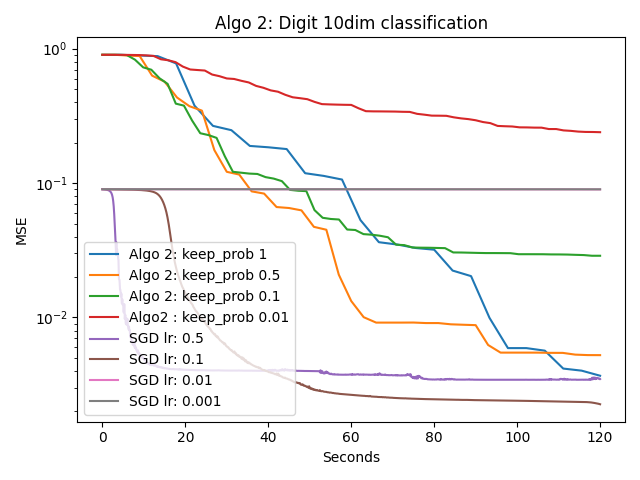
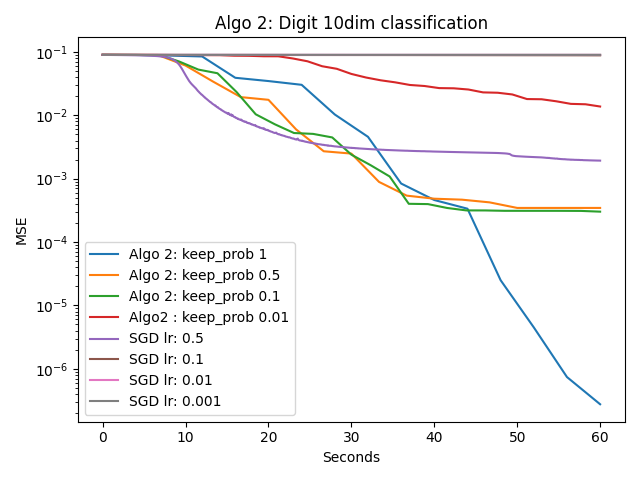
loss function fix

diff --git a/src/algorithms/algo2.py b/src/algorithms/algo2.py
@@ -6,7 +6,6 @@ sys.path.append("../functions")
 from tqdm import tqdm
 from datetime import datetime, timedelta
 import time
-
 from utils.plotting import visualize_step
 
  
@@ -15,8 +14,13 @@ from utils.plotting import visualize_step
 
 class Stepper():
     def __init__(self, optimization_method, nn, backtrack, batch_size, optim_params, visualize, A, Y):
+        self.optim_params = optim_params
         if optim_params is None:
-            optim_params = {}
+            self.optim_params = {
+                "keep_prov": 1,
+                "max_backtrack": 30,
+                "momentum": 0}
+        
 
         self.full_A = A
         self.full_Y = Y
@@ -26,18 +30,15 @@ class Stepper():
         self.lambd = 1
         self.batch_size = batch_size
         self.visualize = visualize
-        if "keep_prob" in optim_params:
-            self.keep_prob = optim_params["keep_prob"]
-        else:
-            self.keep_prob = 0.5
-        if "max_backtrack" in optim_params:
-            self.max_backtrack = optim_params["max_backtrack"]
-        else:
-            self.max_backtrack = 30
+        self.keep_prob = self.optim_params.get("keep_prob", 1)
+        self.max_backtrack = self.optim_params.get("max_backtrack", 30)
         
+        self.optim_params["momentum"] = self.optim_params.get("momentum", 0)
 
         self.backtracks = []
-        
+
+        self.prev_step = np.zeros_like(self.nn.get_X())
+        self.first_iteration = True
 
     def get_block(self, a, y):
         """
@@ -78,14 +79,17 @@ class Stepper():
 
         error_vec = self.nn.forward(A, self.X_t + delt)-Y.flatten()
         nabla_f = 2*A_ls.T@error_vec #+ 2*self.lambd*delt
+
+        min_lambd, max_lambd = 1e-15, 500
+        lambd_multiplier = 4
         while new_error > old_error + alpha*t*(nabla_f).T@delt :
             i+=1
 
             
             if i == maxi:
                 print("Max back track")
-                if self.lambd<5:
-                    self.lambd*=4
+                if self.lambd<max_lambd:
+                    self.lambd*=lambd_multiplier
                 self.backtracks.append(i)
                 return np.zeros_like(self.X_t)
                 break
@@ -98,10 +102,12 @@ class Stepper():
         print(i)
         self.backtracks.append(i)
 
-        if i < 1 and self.lambd>1e-15:
-            self.lambd/=4
-        elif self.lambd < 500:
-            self.lambd*=4
+        if i < 1 and self.lambd>min_lambd:
+            self.lambd/=lambd_multiplier
+        elif self.lambd < max_lambd:
+            self.lambd*=lambd_multiplier
+
+        
         return t*delt.flatten()  
 
     def take_step(self, X_t, A, Y):
@@ -148,11 +154,21 @@ class Stepper():
 
         c = 1#e-1
         delt = c*delt
+
+        if self.first_iteration:
+            self.first_iteration = False
+        else:
+            delt = self.optim_params["momentum"]*self.prev_step + (1-self.optim_params["momentum"])*delt
+        
         t3 = time.time()
         if self.backtrack:
             step = self.backtrack_step(A, Y, A_ls, b_ls, delt)
         else:
             step = delt.flatten()
+
+        ## Momentum
+
+        self.prev_step = step;
         t4 = time.time()
         jac_creation = t2-t1
         ls_solve = t3-t2
@@ -166,9 +182,12 @@ class Stepper():
 
 
 def mse(g, X, A, Y):
-    return np.sum(
-        np.linalg.norm(g.forward(A, X).reshape((-1, 1))-Y.reshape((-1, 1)), axis=1)**2
-    )/A.shape[0]
+    Y_pred = g.forward(A, X).reshape((-1, 1))
+    mse = ((Y_pred.flatten()- Y.flatten())**2).mean()
+    return mse
+    # return np.sum(
+    #     np.linalg.norm()-Y.reshape((-1, 1)), axis=1)**2
+    # )/A.shape[0]
 
 
 def optimize(g, X0, A, Y, A_test=None, Y_test=None, max_time=300, 

diff --git a/src/momentum.py b/src/momentum.py
@@ -1,0 +1,64 @@
+from functions.PyTorchGN import NN_GN
+from neural_networks.Conv2 import Conv2
+from neural_networks.Conv2_classifier import Conv2_Classifier
+from neural_networks.FC1 import FC1
+from neural_networks.FC2 import FC2
+from neural_networks.Conv1 import Conv1
+from sgd import stochastic_gradient_descent
+from utils.evaluation import get_accuracy
+from utils.plotting import *
+import numpy as np
+import matplotlib.pyplot as plt
+from algorithms.algo2 import optimize
+from data.get_data import get_data, get_data_classifier
+import torch
+
+
+if __name__ == '__main__':
+    torch.manual_seed(0)
+
+    ## Load MNIST Dataset 
+    N=400
+    (train_X, train_y), (test_X, test_y) = get_data_classifier(N=N, linear_input=False)
+
+    ## Get initial neural network parameters 
+    m = train_y.shape[1]
+    n = train_X.shape[1]
+
+    neural_network = Conv2_Classifier()
+    #summary(neural_network, input_size = (1, 28, 28))
+    neural_network.float()
+    nn_gn = NN_GN(neural_network)
+    X0 = nn_gn.get_X()
+    print("Parameters", X0.shape)
+
+    ## Do Gauss Newton
+    MAX_TIME = 120
+    EXPERIMENTS_COUNT = 4
+
+    losses = []
+
+    labels = []
+    plt.figure()
+    for _ in range(EXPERIMENTS_COUNT):
+        X_est,train_errors, _ , timer1, _,= optimize(nn_gn, X0, train_X, train_y, batch_size=300, max_time=MAX_TIME, backtrack=True,
+                        optimization_method="Random columns", optim_params={"keep_prob":0.01, "momentum": 0.5}, visualize=False)
+        Ts = np.linspace(0, MAX_TIME, len(train_errors))
+        plt.plot(Ts, train_errors, color='b')
+
+        X_est,train_errors, _ , timer1, _,= optimize(nn_gn, X0, train_X, train_y, batch_size=300, max_time=MAX_TIME, backtrack=True,
+                        optimization_method="Random columns", optim_params={"keep_prob":0.01, "momentum": 0}, visualize=False)
+
+        Ts = np.linspace(0, MAX_TIME, len(train_errors))
+        plt.plot(Ts, train_errors, color='g')
+        sgd_losses_lr05 = stochastic_gradient_descent(train_X, train_y,  nn_gn=nn_gn, max_time=MAX_TIME, batch_size=300, lr=0.5)
+
+        Ts = np.linspace(0, MAX_TIME, len(sgd_losses_lr05))
+        plt.plot(Ts, sgd_losses_lr05, color='r')
+
+    
+
+
+
+
+    plt.show()

diff --git a/src/sgd.py b/src/sgd.py
@@ -20,11 +20,16 @@ def stochastic_gradient_descent(X, Y,  nn_gn, max_time, batch_size, lr=0.001):
    
 
     net.apply(weight_reset)
-    optimizer = optim.SGD(net.parameters(), lr=lr, momentum=0.9)
+    optimizer = optim.SGD(net.parameters(), lr=lr)
     criterion = nn.MSELoss()
     losses = []
     t1 = datetime.now()
     epoch = 1
+    def mse(Y_pred, Y):
+        
+        mse = ((Y_pred.flatten()- Y.flatten())**2).mean()
+        return mse
+
     while datetime.now()-t1<=timedelta(seconds=max_time):  
 
         
@@ -46,14 +51,13 @@ def stochastic_gradient_descent(X, Y,  nn_gn, max_time, batch_size, lr=0.001):
         #print(f'[{epoch + 1}, {i + 1:5d}] loss: {loss.item():.3f}')
         inputs_l, labels_l = torch.tensor(X), torch.tensor(Y)
         out_l = net(inputs_l)
-        mse_loss = criterion(out_l, labels_l)
+        mse_loss = mse(out_l.detach().numpy(), labels_l.detach().numpy())
 
-        l = customloss(nn_gn, X, Y)
         if epoch%100==1:
             
-            print(f"{epoch}: Loss MSE: {l} ")
+            print(f"{epoch}: Loss MSE: {mse_loss} ")
         epoch+=1
-        losses.append(mse_loss.detach())
+        losses.append(mse_loss)
     print("Timeout")
     return losses
 

diff --git a/src/mnist_conv_nn_classifier.py b/src/mnist_conv_nn_classifier.py
@@ -57,10 +57,10 @@ if __name__ == '__main__':
     sgd_losses_lr05 = stochastic_gradient_descent(train_X, train_y,  nn_gn=nn_gn, max_time=MAX_TIME, batch_size=300, lr=0.5)
     print("Train Accuracy", get_accuracy(nn_gn, train_X, train_y))
     print("Test Accuracy", get_accuracy(nn_gn, test_X, test_y))
-    plot_timer(timer1, title="Timer: keep_prob=1")
-    plot_timer(timer05, title="Timer: keep_prob=0.5")
-    plot_timer(timer01, title="Timer: keep_prob=0.1")
-    plot_timer(timer001, title="Timer: keep_prob=0.001")
+    # plot_timer(timer1, title="Timer: keep_prob=1")
+    # plot_timer(timer05, title="Timer: keep_prob=0.5")
+    # plot_timer(timer01, title="Timer: keep_prob=0.1")
+    # plot_timer(timer001, title="Timer: keep_prob=0.001")
     sgd_losses_lr01 = stochastic_gradient_descent(train_X, train_y, nn_gn=nn_gn, max_time=MAX_TIME, batch_size=300, lr=0.1)
     print("Train Accuracy", get_accuracy(nn_gn, train_X, train_y))
     print("Test Accuracy", get_accuracy(nn_gn, test_X, test_y))
